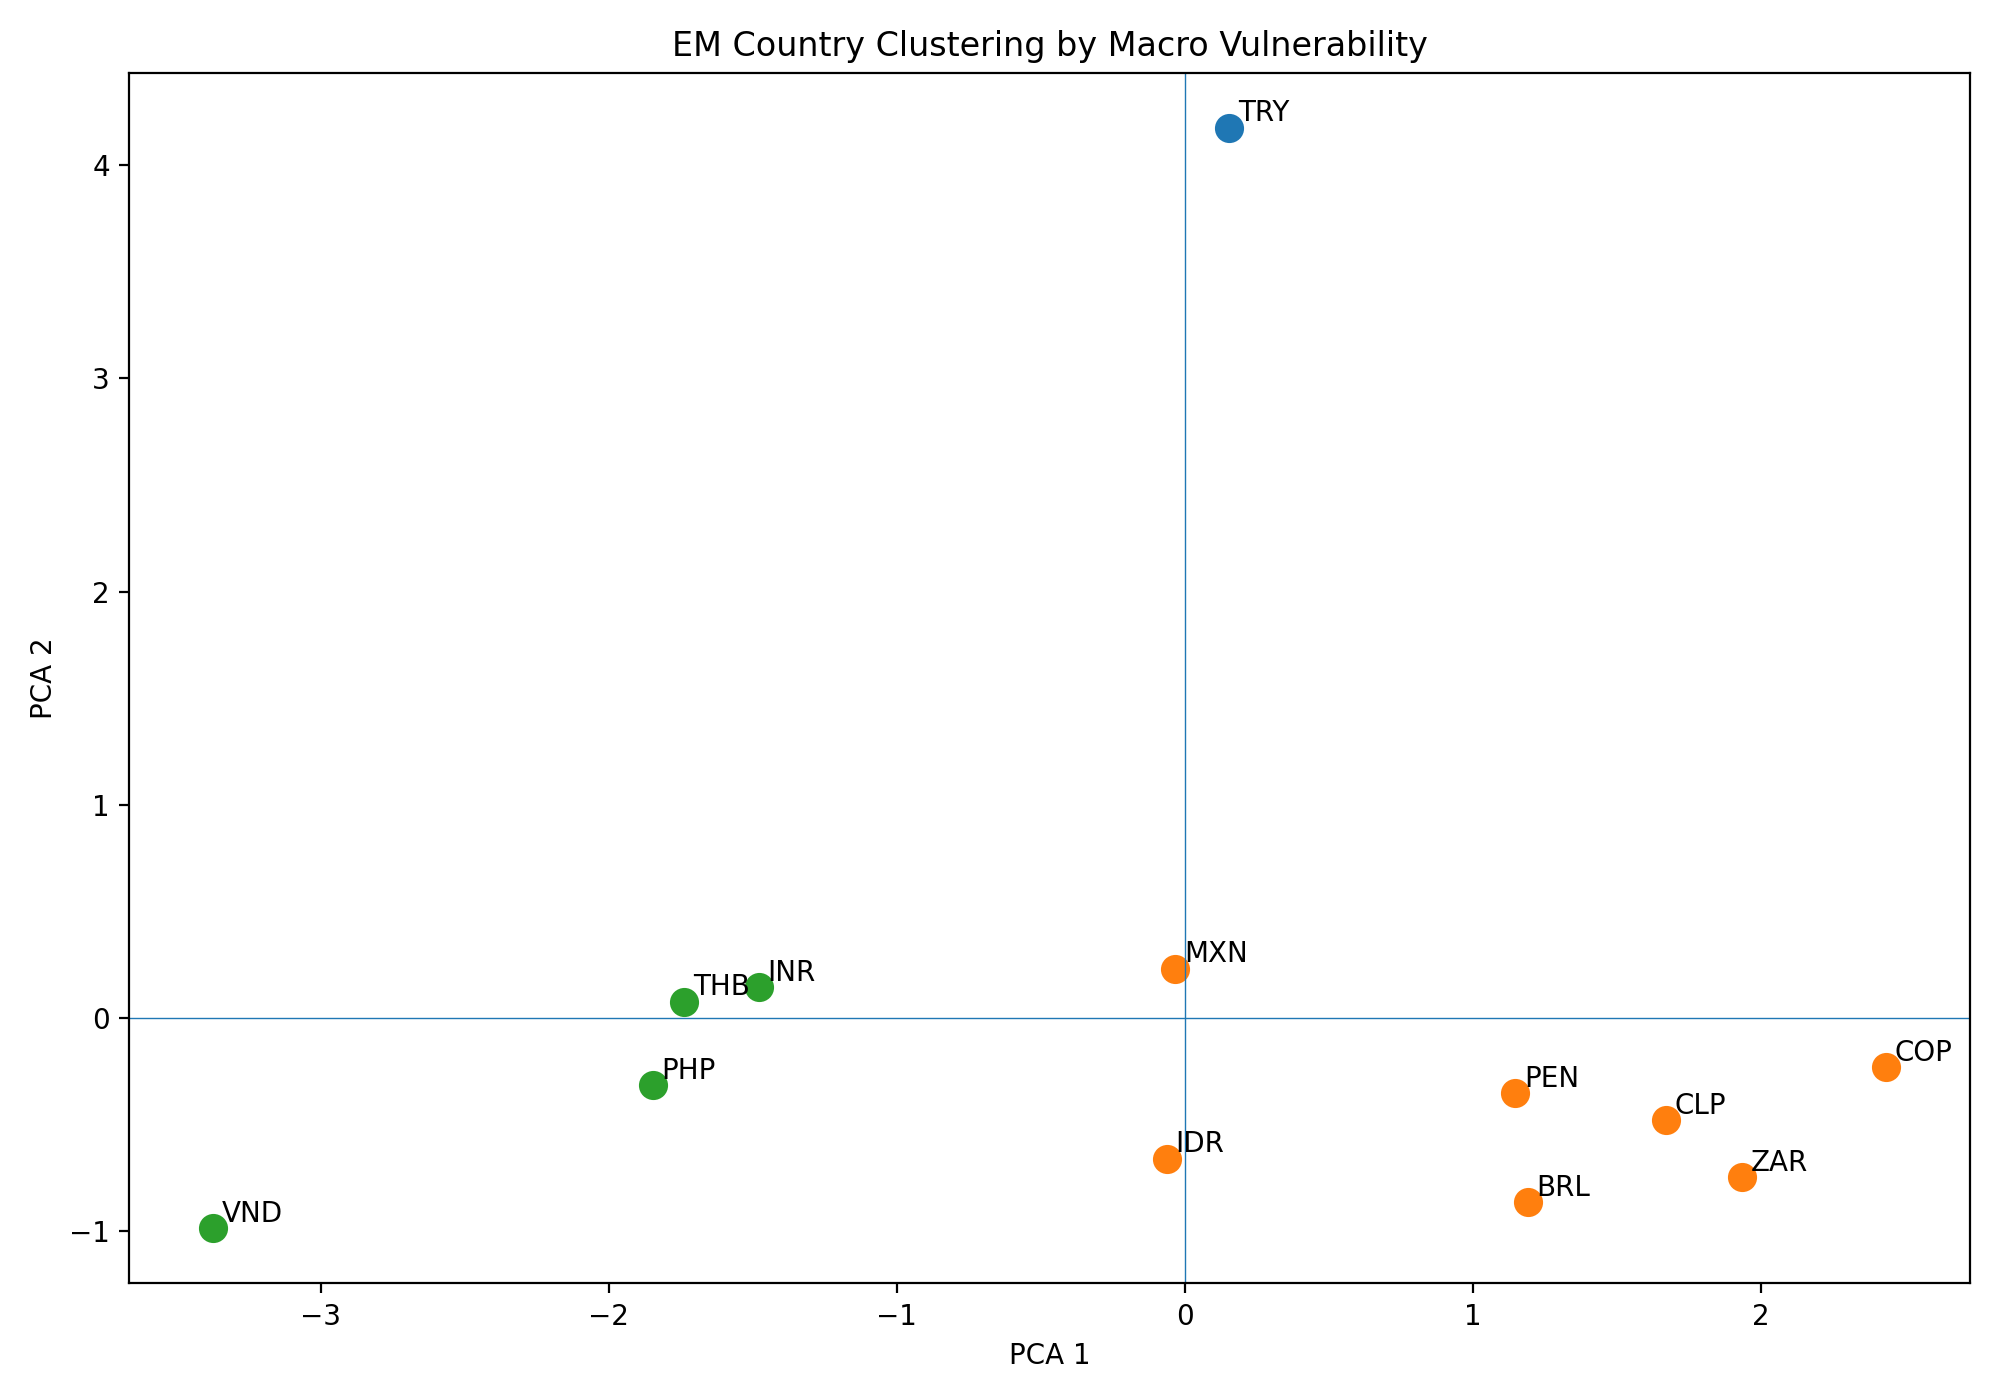
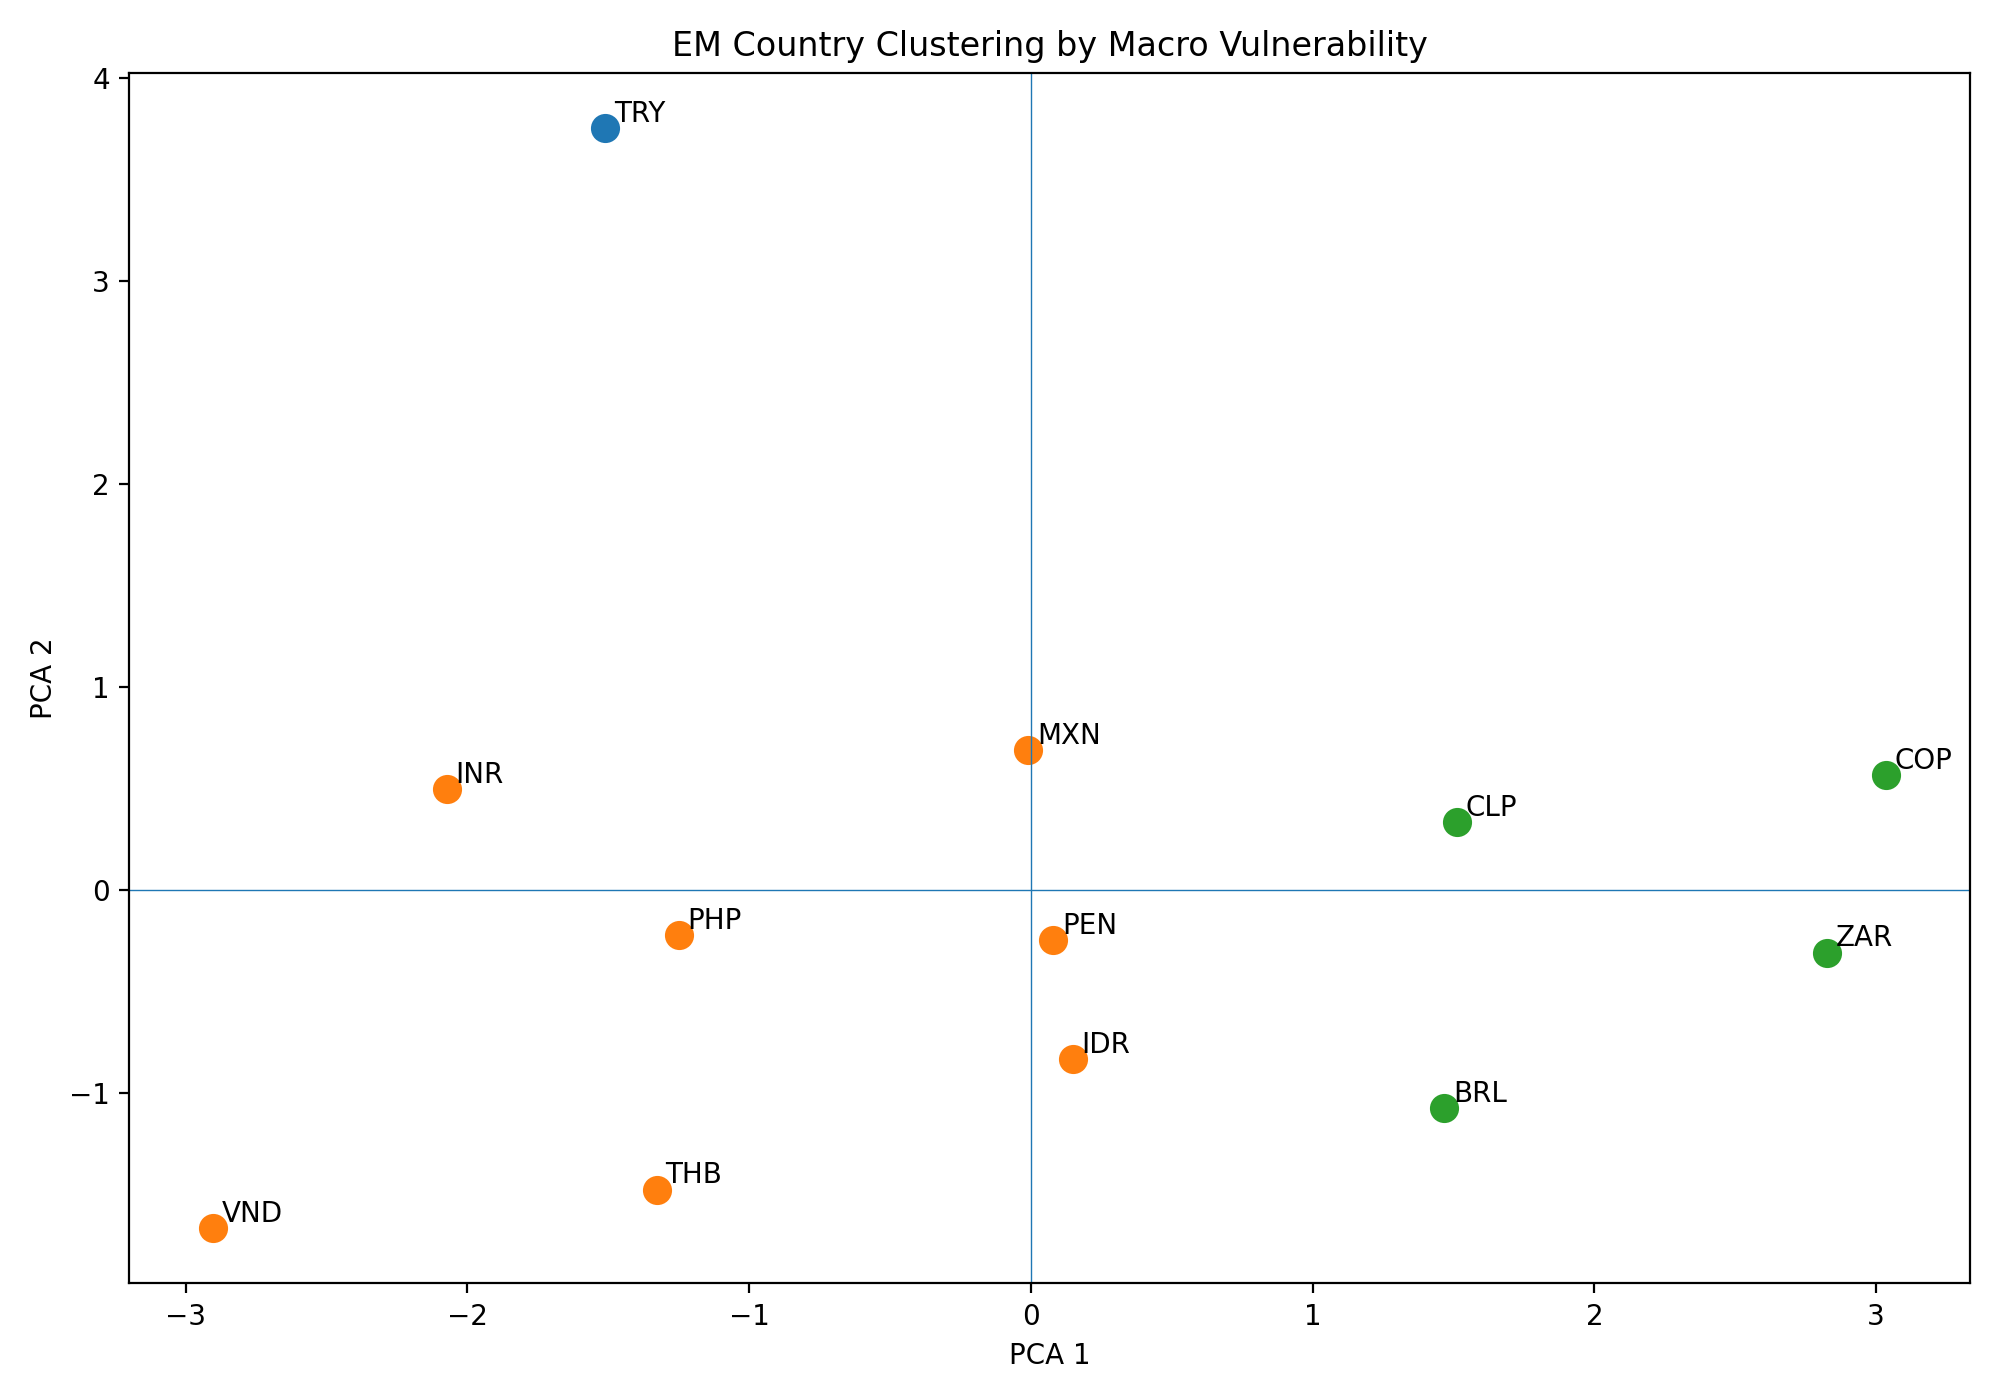
Add real World Bank macro data with improved API retry logic

diff --git a/src/data_macro.py b/src/data_macro.py
@@ -1,0 +1,202 @@
+from __future__ import annotations
+
+from pathlib import Path
+from typing import Any
+import time
+
+import pandas as pd
+import requests
+
+
+WORLD_BANK_BASE_URL = "https://api.worldbank.org/v2"
+
+
+INDICATORS = {
+    "inflation": "FP.CPI.TOTL.ZG",
+    "gdp_growth": "NY.GDP.MKTP.KD.ZG",
+    "current_account_gdp": "BN.CAB.XOKA.GD.ZS",
+    "government_debt_gdp": "GC.DOD.TOTL.GD.ZS",
+    "external_debt_gni": "DT.DOD.DECT.GN.ZS",
+    "total_reserves_usd": "FI.RES.TOTL.CD",
+    "gdp_current_usd": "NY.GDP.MKTP.CD",
+}
+
+
+def fetch_world_bank_indicator(
+    iso3: str,
+    indicator_code: str,
+    start_year: int = 2015,
+    end_year: int = 2025,
+) -> pd.DataFrame:
+    """
+    Fetch a single World Bank indicator for one country with retry logic.
+
+    Returns a dataframe with columns:
+    iso3, year, indicator_code, value
+    """
+    url = f"{WORLD_BANK_BASE_URL}/country/{iso3}/indicator/{indicator_code}"
+
+    params = {
+        "format": "json",
+        "per_page": 20000,
+        "date": f"{start_year}:{end_year}",
+    }
+
+    max_retries = 3
+    retry_delay = 2
+    
+    for attempt in range(max_retries):
+        try:
+            response = requests.get(url, params=params, timeout=180)
+            response.raise_for_status()
+            
+            payload: list[Any] = response.json()
+
+            if len(payload) < 2 or payload[1] is None:
+                return pd.DataFrame(
+                    columns=["iso3", "year", "indicator_code", "value"]
+                )
+
+            rows = []
+
+            for item in payload[1]:
+                rows.append(
+                    {
+                        "iso3": iso3,
+                        "year": int(item["date"]),
+                        "indicator_code": indicator_code,
+                        "value": item["value"],
+                    }
+                )
+
+            df = pd.DataFrame(rows)
+            df = df.dropna(subset=["value"])
+            
+            return df
+            
+        except requests.exceptions.Timeout:
+            if attempt < max_retries - 1:
+                wait_time = retry_delay * (2 ** attempt)
+                print(f"  Timeout on attempt {attempt + 1}, waiting {wait_time}s before retry...")
+                time.sleep(wait_time)
+            else:
+                print(f"  Failed after {max_retries} attempts, returning empty...")
+                return pd.DataFrame(
+                    columns=["iso3", "year", "indicator_code", "value"]
+                )
+        except requests.exceptions.RequestException as e:
+            print(f"  Error: {e}")
+            return pd.DataFrame(
+                columns=["iso3", "year", "indicator_code", "value"]
+            )
+
+
+def latest_available_value(series: pd.DataFrame) -> tuple:
+    """
+    Return the latest non-null value and year from a World Bank indicator series.
+    """
+    if series.empty:
+        return None, None
+
+    clean = series.dropna(subset=["value"]).sort_values("year", ascending=False)
+
+    if clean.empty:
+        return None, None
+
+    latest = clean.iloc[0]
+    return float(latest["value"]), int(latest["year"])
+
+
+def build_world_bank_macro_dataset(
+    countries: pd.DataFrame,
+    start_year: int = 2015,
+    end_year: int = 2025,
+) -> pd.DataFrame:
+    """
+    Build a latest-available macro dataset for selected countries.
+
+    countries must contain:
+    country, iso3, ccy
+    """
+    output_rows = []
+
+    for idx, (_, country_row) in enumerate(countries.iterrows()):
+        country_name = country_row["country"]
+        iso3 = country_row["iso3"]
+        ccy = country_row["ccy"]
+
+        print(f"[{idx+1}/{len(countries)}] Fetching World Bank data for {country_name} ({iso3})...")
+        
+        # Be respectful to the API - wait between requests
+        if idx > 0:
+            time.sleep(1)
+
+        row = {
+            "country": country_name,
+            "iso3": iso3,
+            "ccy": ccy,
+        }
+
+        raw_series = {}
+
+        for clean_name, indicator_code in INDICATORS.items():
+            series = fetch_world_bank_indicator(
+                iso3=iso3,
+                indicator_code=indicator_code,
+                start_year=start_year,
+                end_year=end_year,
+            )
+
+            raw_series[clean_name] = series
+
+            value, year = latest_available_value(series)
+
+            row[clean_name] = value
+            row[f"{clean_name}_year"] = year
+
+        # Calculate reserves as % of GDP using the latest year where both exist.
+        reserves = raw_series["total_reserves_usd"].rename(
+            columns={"value": "total_reserves_usd"}
+        )
+        gdp = raw_series["gdp_current_usd"].rename(
+            columns={"value": "gdp_current_usd"}
+        )
+
+        if not reserves.empty and not gdp.empty:
+            merged = reserves[["year", "total_reserves_usd"]].merge(
+                gdp[["year", "gdp_current_usd"]],
+                on="year",
+                how="inner",
+            )
+            merged = merged.dropna()
+
+            if not merged.empty:
+                merged["reserves_gdp"] = (
+                    merged["total_reserves_usd"] / merged["gdp_current_usd"] * 100
+                )
+                latest_reserves = merged.sort_values(
+                    "year",
+                    ascending=False,
+                ).iloc[0]
+
+                row["reserves_gdp"] = float(latest_reserves["reserves_gdp"])
+                row["reserves_gdp_year"] = int(latest_reserves["year"])
+            else:
+                row["reserves_gdp"] = None
+                row["reserves_gdp_year"] = None
+        else:
+            row["reserves_gdp"] = None
+            row["reserves_gdp_year"] = None
+
+        output_rows.append(row)
+
+    return pd.DataFrame(output_rows)
+
+
+def save_macro_data(df: pd.DataFrame, path) -> None:
+    """
+    Save macro dataset to CSV.
+    """
+    path = Path(path)
+    path.parent.mkdir(parents=True, exist_ok=True)
+    df.to_csv(path, index=False)

diff --git a/scripts/00_download_macro_data.py b/scripts/00_download_macro_data.py
@@ -1,0 +1,77 @@
+from pathlib import Path
+
+import pandas as pd
+
+from src.data_macro import build_world_bank_macro_dataset, save_macro_data
+
+
+EXPOSURE_INPUT_PATH = Path("data/inputs/country_exposure_scores.csv")
+MACRO_OUTPUT_PATH = Path("data/processed/country_macro_real.csv")
+
+
+def main() -> None:
+    print("Loading country list and exposure scores...")
+    print(f"Looking for file: {EXPOSURE_INPUT_PATH}")
+
+    countries = pd.read_csv(EXPOSURE_INPUT_PATH)
+    print(f"Loaded {len(countries)} countries")
+
+    required_cols = {"country", "iso3", "ccy"}
+
+    missing_cols = required_cols - set(countries.columns)
+
+    if missing_cols:
+        raise ValueError(
+            f"Missing required columns in {EXPOSURE_INPUT_PATH}: {missing_cols}"
+        )
+
+    print("Downloading real macro data from World Bank...")
+    print("This may take 1-2 minutes...")
+
+    macro_data = build_world_bank_macro_dataset(
+        countries=countries[["country", "iso3", "ccy"]],
+        start_year=2015,
+        end_year=2025,
+    )
+
+    print(f"Downloaded data for {len(macro_data)} countries")
+    print("Merging real macro data with manual exposure scores...")
+
+    exposure_cols = [
+        "country",
+        "iso3",
+        "ccy",
+        "commodity_score",
+        "oil_importer_score",
+        "china_exposure_score",
+    ]
+
+    final = macro_data.merge(
+        countries[exposure_cols],
+        on=["country", "iso3", "ccy"],
+        how="left",
+    )
+
+    save_macro_data(final, MACRO_OUTPUT_PATH)
+
+    print(f"Saved real macro dataset to {MACRO_OUTPUT_PATH}")
+
+    display_cols = [
+        "country",
+        "ccy",
+        "inflation",
+        "gdp_growth",
+        "current_account_gdp",
+        "government_debt_gdp",
+        "external_debt_gni",
+        "reserves_gdp",
+        "commodity_score",
+        "oil_importer_score",
+        "china_exposure_score",
+    ]
+
+    print(final[display_cols])
+
+
+if __name__ == "__main__":
+    main()

diff --git a/scripts/03_country_clustering.py b/scripts/03_country_clustering.py
@@ -6,7 +6,7 @@ import pandas as pd
 from src.country_clustering import fit_country_clustering, save_country_clusters
 
 
-INPUT_PATH = Path("data/inputs/country_macro_toy.csv")
+INPUT_PATH = Path("data/processed/country_macro_real.csv")
 OUTPUT_PATH = Path("data/processed/country_clusters.csv")
 FIGURE_PATH = Path("reports/figures/country_clusters.png")
 
@@ -16,6 +16,8 @@ FEATURES = [
     "current_account_gdp",
     "government_debt_gdp",
     "gdp_growth",
+    "external_debt_gni",
+    "reserves_gdp",
     "commodity_score",
     "oil_importer_score",
     "china_exposure_score",
@@ -26,6 +28,19 @@ def main() -> None:
     print("Loading country macro data...")
 
     macro_data = pd.read_csv(INPUT_PATH)
+
+    print("\nMissing values before imputation:")
+    print(macro_data[FEATURES].isna().sum())
+
+    for col in FEATURES:
+        macro_data[col] = pd.to_numeric(macro_data[col], errors="coerce")
+
+    macro_data[FEATURES] = macro_data[FEATURES].fillna(
+        macro_data[FEATURES].median()
+    )
+
+    print("\nMissing values after imputation:")
+    print(macro_data[FEATURES].isna().sum())
 
     print("Fitting country clustering model...")
 